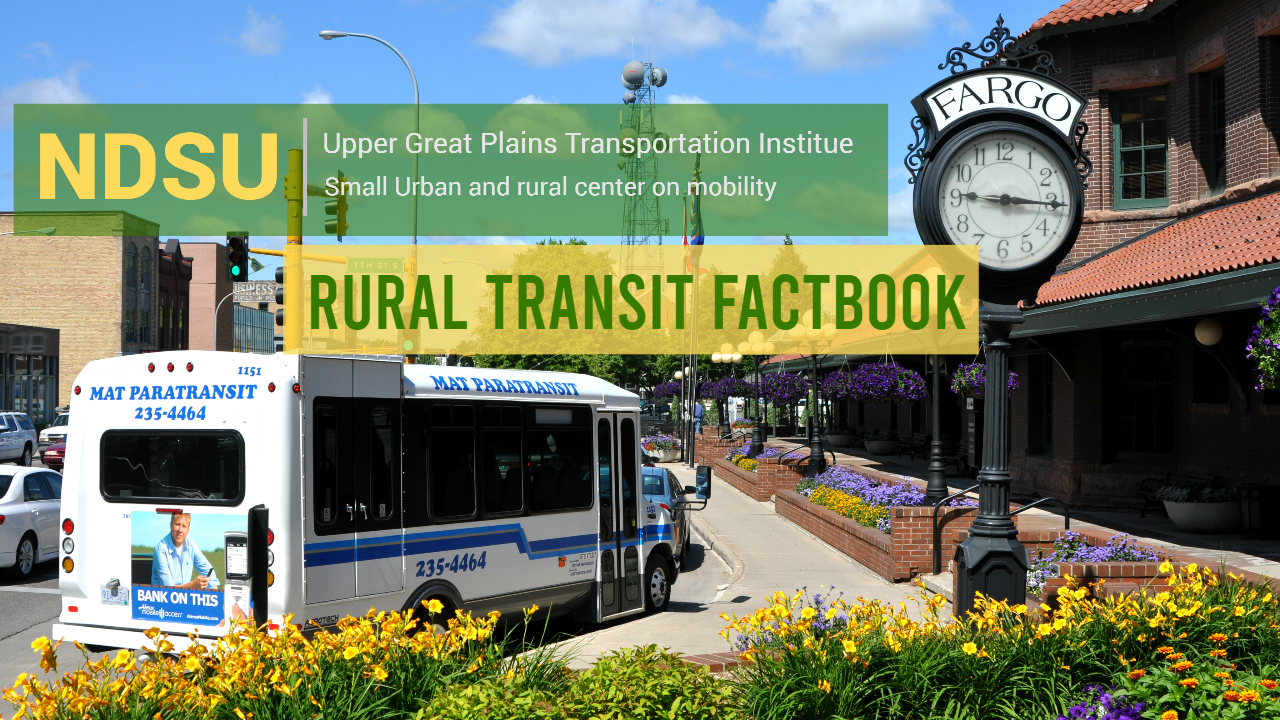
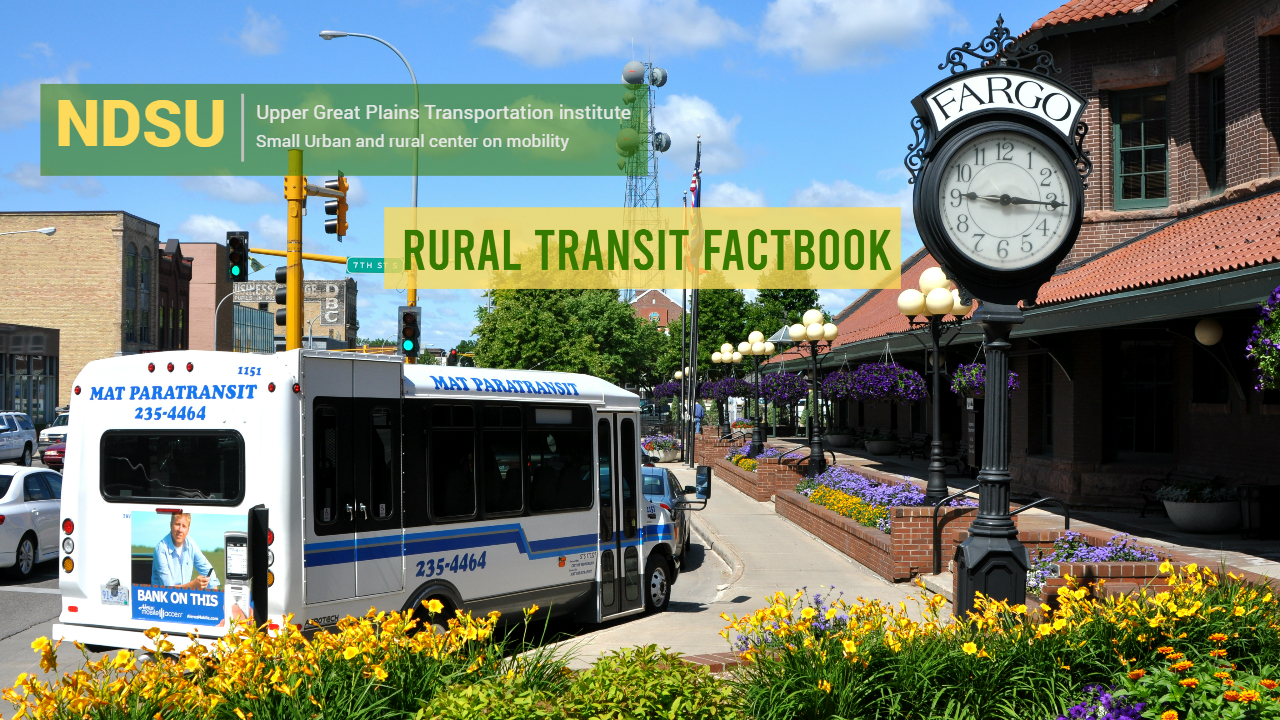
change home photo

Changed region(s): [[0.0, 0.0917, 0.7812, 0.5194]]

diff --git a/flaskapp/templates/home.html b/flaskapp/templates/home.html
@@ -14,7 +14,7 @@ body, html {height: 100%}
   min-height: 100%;
   background-position: center;
   background-size: cover;
-  filter: grayscale(50%);
+  /*filter: grayscale(50%);*/
 }
 </style>
 <body>
